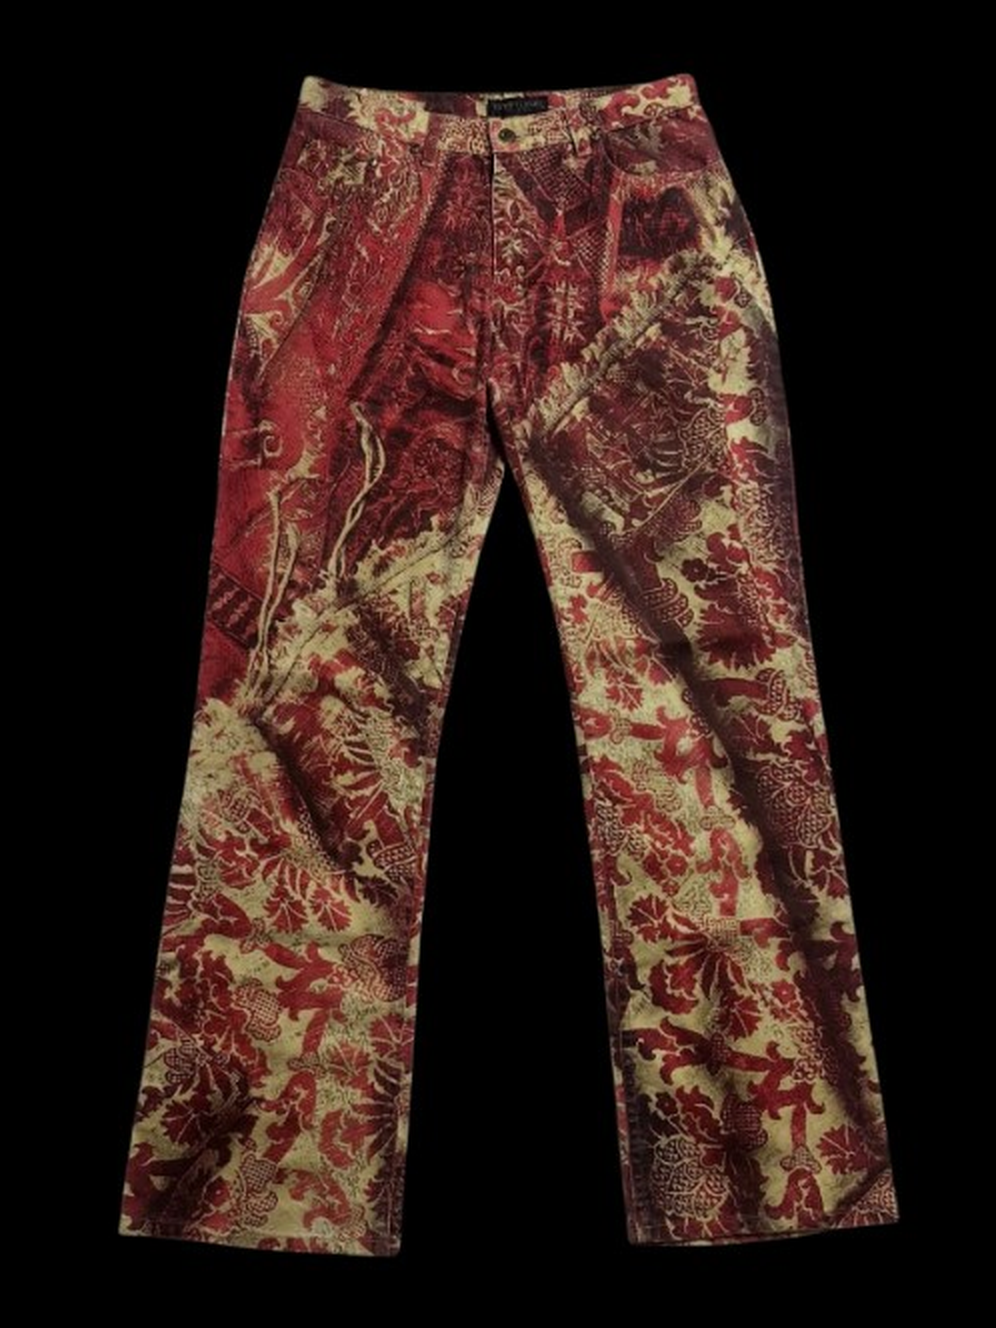
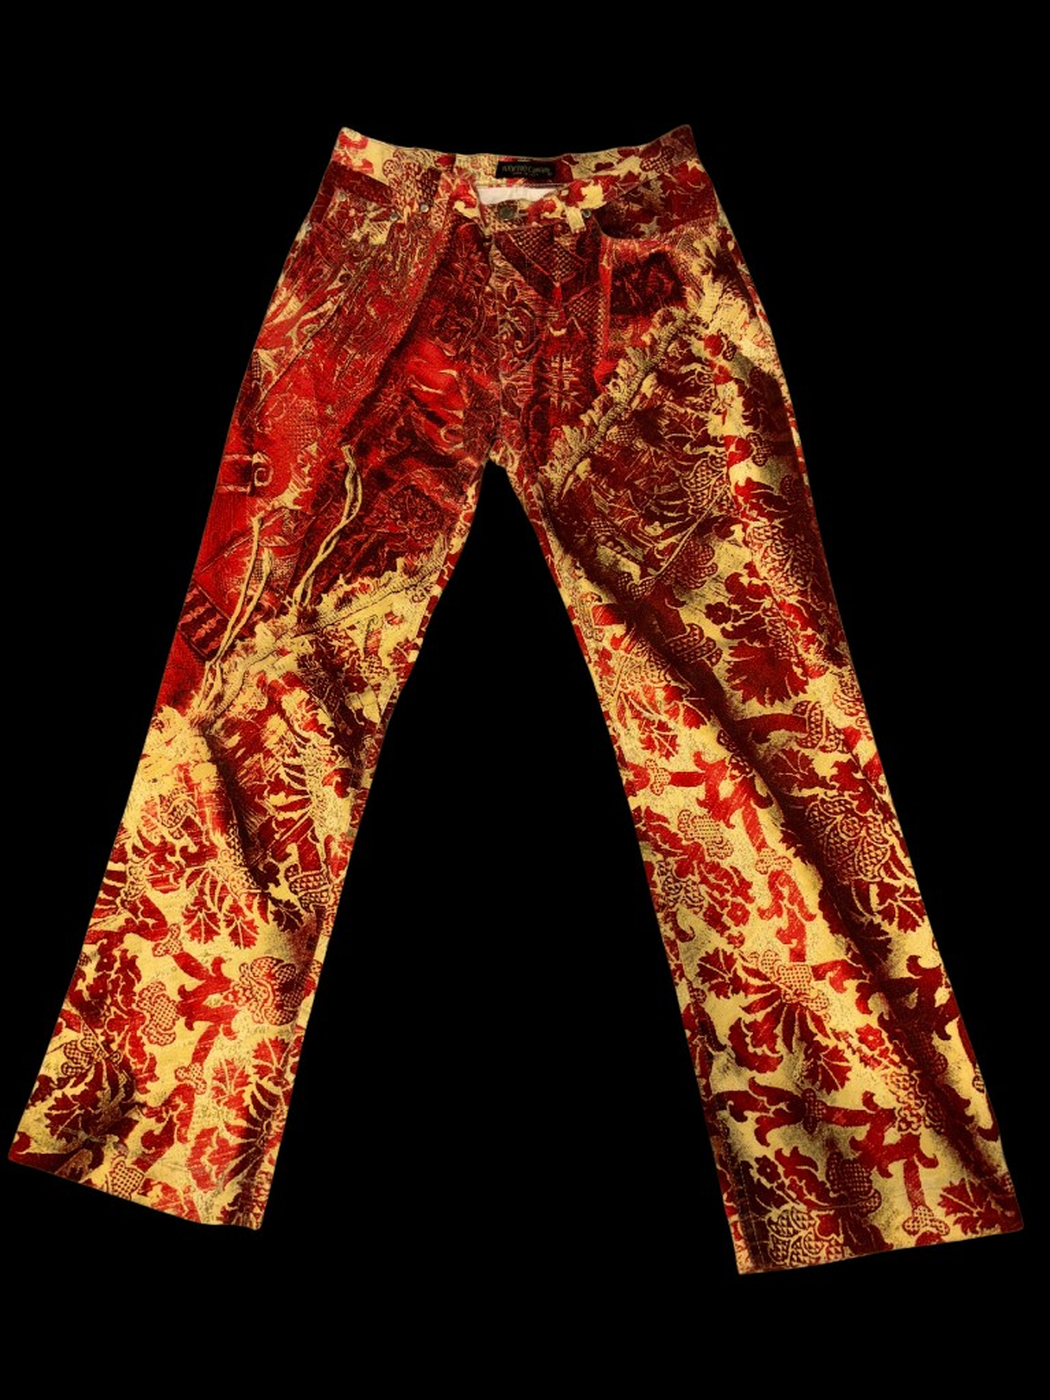
Update the Cavalli tribal jeans with new photos, a $450 price, and the 2001 runway note.

diff --git a/figma-vintage-clothing/src/app/components/HomePage.tsx b/figma-vintage-clothing/src/app/components/HomePage.tsx
@@ -33,7 +33,10 @@ import dgFloralCapriLabelImg from "../../imports/dg-floral-capri-gallery/04-labe
 import jpgMeshTattooDressFrontImg from "../../imports/jpg-mesh-tattoo-dress-gallery/01-front.png";
 import jpgMeshTattooDressFrontAltImg from "../../imports/jpg-mesh-tattoo-dress-gallery/02-front-alt.png";
 import jpgMeshTattooDressBackImg from "../../imports/jpg-mesh-tattoo-dress-gallery/03-back.png";
-import cavalliTribalPantsImg from "../../imports/roberto-cavalli-tribal-pants-gallery/01-front.png";
+import cavalliTribalJeansFrontImg from "../../imports/roberto-cavalli-tribal-pants-gallery/01-front.png";
+import cavalliTribalJeansBackImg from "../../imports/roberto-cavalli-tribal-pants-gallery/02-back.png";
+import cavalliTribalJeansFrontAltImg from "../../imports/roberto-cavalli-tribal-pants-gallery/03-front-alt.png";
+import cavalliTribalJeansLabelImg from "../../imports/roberto-cavalli-tribal-pants-gallery/04-label.png";
 import emilioPucciBootsPairImg from "../../imports/emilio-pucci-platform-boots-gallery/01-pair.png";
 import emilioPucciBootsSideImg from "../../imports/emilio-pucci-platform-boots-gallery/02-side.png";
 import emilioPucciBootsProfileImg from "../../imports/emilio-pucci-platform-boots-gallery/03-profile.png";
@@ -50,15 +53,15 @@ import authenticatedFeatureImg from "../../imports/authenticated-feature-backgro
 export const ALL_PRODUCTS: Product[] = [
   {
     id: 23,
-    name: "Red & Gold Tribal Pants",
+    name: "Red & Gold Tribal Jeans",
     brand: "Roberto Cavalli",
-    price: 300,
+    price: 450,
     size: "XS but runs big",
     era: "Vintage",
     condition: "Good",
     category: "Bottoms",
     color: "Red / Gold",
-    collection: "Autumn/Winter 2002 Collection by Roberto Cavalli",
+    collection: "Roberto Cavalli Autumn/Winter 2002, part of the 2001 runway",
     origin: "Italy",
     measurements: {
       waist: '30"',
@@ -66,9 +69,14 @@ export const ALL_PRODUCTS: Product[] = [
       inseam: '30"',
       hemOpening: '19"',
     },
-    details: ["All-over tribal print"],
-    image: cavalliTribalPantsImg,
-    images: [cavalliTribalPantsImg],
+    details: ["All-over tribal print", "AW 2002", "Part of the 2001 runway"],
+    image: cavalliTribalJeansFrontImg,
+    images: [
+      cavalliTribalJeansFrontImg,
+      cavalliTribalJeansBackImg,
+      cavalliTribalJeansFrontAltImg,
+      cavalliTribalJeansLabelImg,
+    ],
     imageBackground: "#000000",
   },
   {
